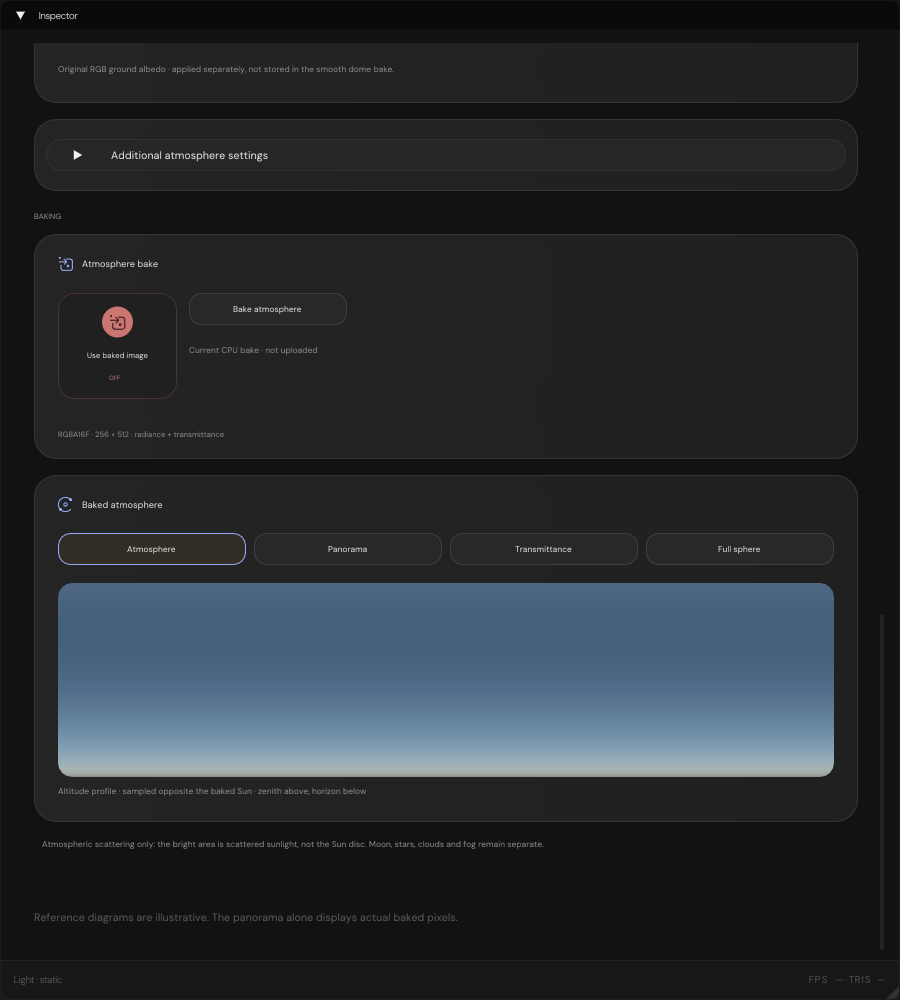
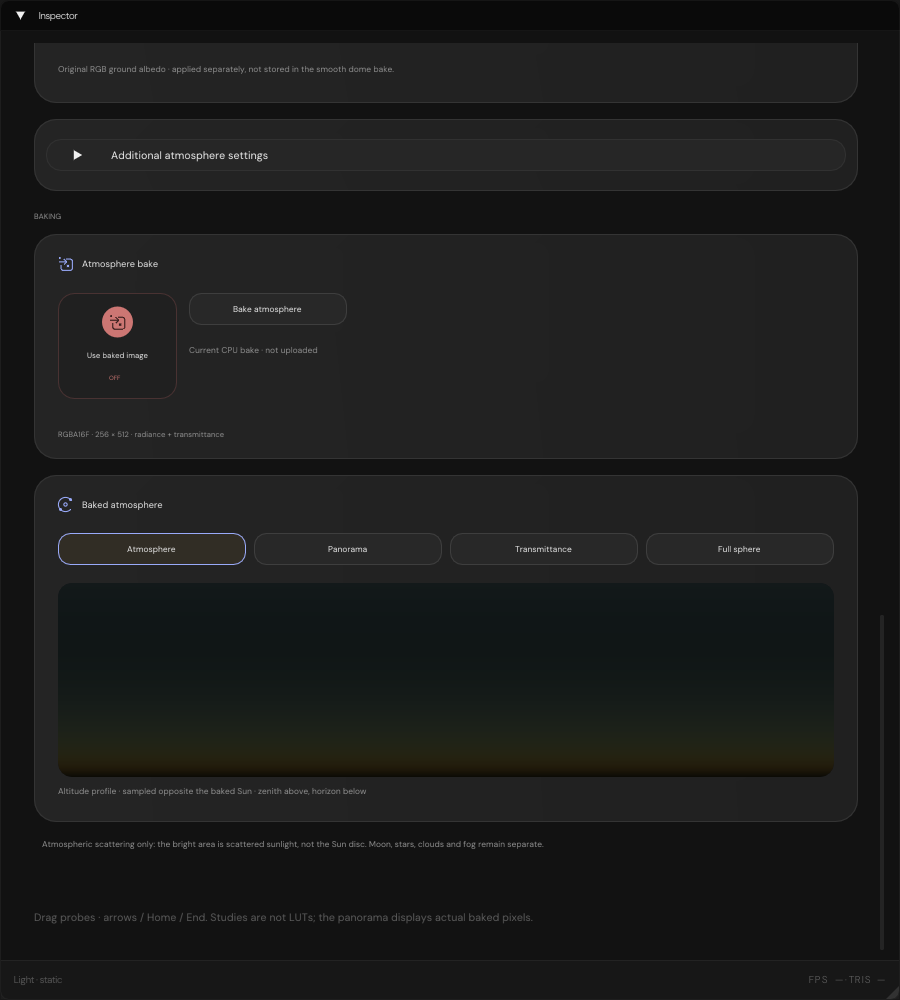
Retain verified native environment graph captures and phase status [skip ci]

Changed region(s): [[0.0622, 0.558, 0.9333, 0.775], [0.3111, 0.899, 0.3422, 0.93], [0.1556, 0.899, 0.1867, 0.93]]

diff --git a/Frontier/Engine/Editor/CurvePanel.h b/Frontier/Engine/Editor/CurvePanel.h
@@ -1,5 +1,5 @@
 //============================================================================================================================================
-//                                                                CURVEPANEL.H                                                                
+//                                                                CURVEPANEL.H
 //============================================================================================================================================
 // 📦 Bounded sampled curves with mouse and keyboard domain probes; no sample-array storage.
 

diff --git a/Frontier/Engine/Editor/EnvironmentProjection.h b/Frontier/Engine/Editor/EnvironmentProjection.h
@@ -1,5 +1,5 @@
 //============================================================================================================================================
-//                                                          ENVIRONMENTPROJECTION.H                                                           
+//                                                          ENVIRONMENTPROJECTION.H
 //============================================================================================================================================
 // 📦 Calendar coordinates and explicitly illustrative atmosphere/spectrum studies.
 

diff --git a/Frontier/Docs/ProjectZeroHtmlChanges.md b/Frontier/Docs/ProjectZeroHtmlChanges.md
@@ -30,12 +30,13 @@
 | C015 | Cloud selection of a composite wind field | Implemented and browser-checked | Native cloud advection binding deferred |
 | C016 | Local fog volume shape instead of fixed box bounds | Implemented and browser-checked | Native shape masks/SDF integration deferred |
 | C017 | Permanent first Editor Camera | Implemented and browser-checked | Editor Camera pinned/locked; native feed checked |
-| C018 | Interactive environment graphs | Implemented and browser-checked | Added HTML probes/plots still to mirror |
+| C018 | Interactive environment graphs | Implemented and browser-checked | Native Sun/atmosphere plots implemented; remaining graphs pending (C024) |
 | C019 | AtmosphereLab atlas and space study | Implemented and browser-checked | Still to mirror; real native dome bake retained |
 | C020 | Pill viewport header | Implemented and browser-checked | Existing native pill rail retained |
 | C021 | Folder/collection inspector | Implemented and browser-checked | Native census, search and bounded paging; native roster cap unchanged |
 | C022 | Resizable statistics/debug card | Implemented and browser-checked | Native card with engine intervals/completed GPU telemetry |
 | C023 | Native conversion, bottom baking, stack safety | Approved HTML baseline retained | Initial native checkpoint; see remaining work below |
+| C024 | Native Sun and atmosphere graph controls | Approved HTML baseline retained | Eight interactive plots; native input and low-stack checks passed |
 
 ## 2026-10-04 — C001: Construct presentation
 
@@ -865,3 +866,74 @@ local-fog shape masks in the actual renderer, the added interactive environment 
 AtmosphereLab 2D colour atlas/space study. Existing native environment inspectors and wind-component
 bindings are retained, but they are not presented as implementations of the newer HTML composite model.
 The new native statistics card also does not yet reproduce every browser-only keyboard/persistence detail.
+
+
+## 2026-10-04 — C024: Native Sun and atmosphere graph controls
+
+Second native conversion phase, continuing C018 without changing the approved HTML.
+This phase replaces decorative studies inside the existing Sun and Atmosphere cards;
+it does not add duplicate cards or move baking above authoring controls.
+
+### Implemented
+
+- Sun daylight plot samples the production `CelestialSolver` through 24 local hours.
+  Dragging edits Local Hours; the native owner then solves the scene light direction.
+- Seasonal plot samples that same solver at 12:00 local wall-clock time, not solar noon.
+  Dragging edits Month and Day of Month. It uses the actual native year, UTC offset,
+  latitude and longitude rather than a second hard-coded observer.
+- Exposed existing native Year and UTC offset alongside the additional Sun settings.
+  Calendar writeback clamps actual month lengths, including Gregorian leap-century rules.
+- Sunlight gain plots Intensity × Direct and edits the real Intensity property.
+  Units remain authored multipliers, not lux. Temperature contains a normalized visible
+  Planck spectrum probe, explicitly not the active spectrum when RGB tint is selected.
+- Atmosphere scattering retains the approved relative wavelength studies: Rayleigh power −4
+  and illustrative aerosol power −1.3. Haze retains the normalized-path attenuation study;
+  ozone retains the illustrative 600 nm Gaussian transmission band. These are labelled
+  authoring illustrations, not native spectral coefficients, measured visibility or LUTs.
+- Density plots both exponential scale heights up to the authored atmosphere extent.
+  Native sliders continue through the existing medium writeback. Scattering and ozone
+  share a wavelength probe; diagnostic probes do not edit medium settings.
+- All eight plots support dragging, hover inspection, arrow keys and Home/End.
+  Hover never writes a scene parameter. Diagnostic probe positions live in the inspector's
+  UI-session storage; project-file persistence for these probes is not implemented.
+- Curve sampling emits bounded line segments without automatic sample arrays or recursive calls.
+  Existing baking, preview, export and unsupported-target states remain below the controls.
+
+### Executed verification
+
+Production source: `186f82446cbeb183ffd4e7272f33b880527be710`.
+
+- Linux Release: **4/4 CTest targets passed**, 165.17 seconds total.
+  The production CPU renderer still passes 113 assertions; wind and bootstrap checks also pass.
+- Conversion execution passed with a **256 KiB stack** and the **8 KiB critical-frame gate**.
+  GCC reports Sun inspector 1,840 bytes, Atmosphere inspector 704 bytes and proof entry 1,728 bytes.
+  This remains a scoped native proof, not a diagnosis of every possible runtime stack failure.
+- ImGui's optional item hooks are enabled only in the proof target. Checks locate actual
+  submitted graph items and inject mouse/key input, rather than editing fields to fake a click.
+  Pointer tolerances allow one native screen pixel; keyboard endpoints are checked exactly.
+- Verified hover non-mutation, real gain/time/date writeback, resulting native solar-direction
+  changes, every date in five common/leap/century years, February clamping, spectral and density
+  equations, shared probes, and plot bounds in 900 px and 480 px inspector captures.
+- Repeated the real bottom bake click, request consumption, heap-backed texture creation,
+  `.environment` export/reload with exact HDR texel equality, and scrolling to baking.
+- **Windows/MSVC Release compilation and NativeEditorConversion execution passed** for this source:
+  [run 37224368522, native editor job 111500910577][EnvironmentMsvcProof]. The MSVC stack reserve
+  remains unchanged; the 256 KiB restriction and compiler-frame report are Linux-specific.
+  The broader application build for this source is still pending.
+  The preceding source `28946b3` also completed its full Frontier/Project-Zero/Project-Drive
+  build job successfully before this phase, independently of this phase's new checks.
+
+Captures and execution reports remain in `VisualProof/ProjectZeroNative/`:
+`SunGraphs.png`, `SunGraphsNarrow.png`, `AtmosphereGraphs.png`, `AtmosphereGraphsNarrow.png`,
+`Verification.log`, `StackUsage.json`, `Regression.log` and `Provenance.json`.
+They are actual native ImGui command rasterizations, not browser screenshots or Vulkan readbacks.
+`AtmosphereGraphsDetail.png` is an unscaled crop of `AtmosphereGraphs.png` for convenient viewing.
+
+### Still outstanding
+
+C018 is not complete: the remaining fog/cloud studies, cloud bounds handles and generic
+parameter-column maps still need reconciliation. AtmosphereLab's atlas/orbital study,
+materials/ShaderEditor, asset drawers, composite wind and renderer fog shapes are unchanged
+and remain outstanding. This checkpoint does not claim full C001–C022 native parity.
+
+[EnvironmentMsvcProof]: https://github.com/unassignedinbox/Slate/actions/runs/37224368522/job/111500910577
